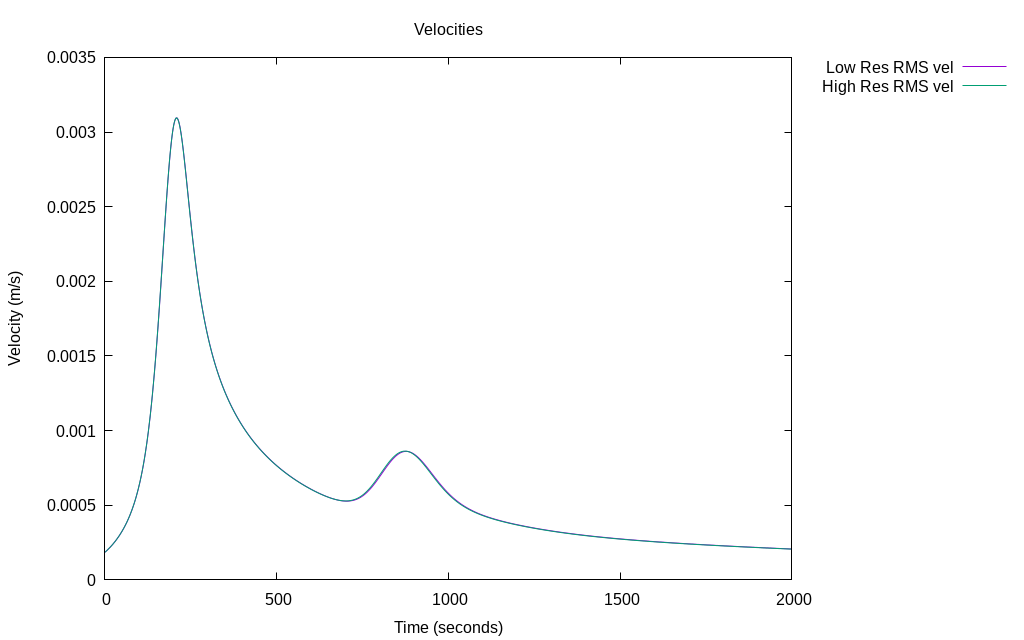
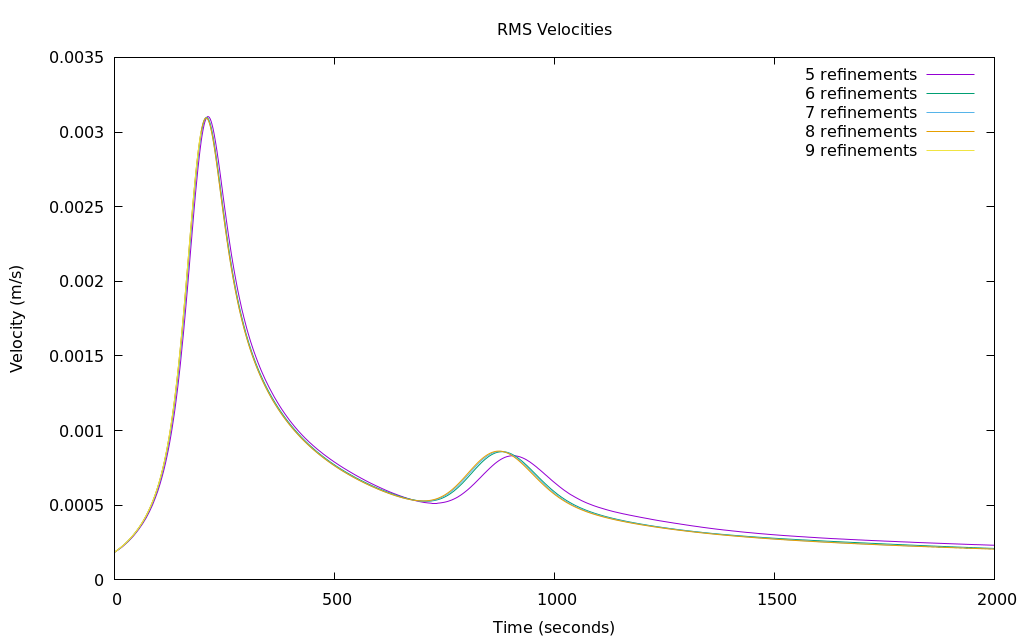
Elaborate and add preliminary figures
Note that the rms figures used are not yet final, due to some of the
compuations not yet having completed

diff --git a/doc/manual/manual.tex b/doc/manual/manual.tex
@@ -9049,8 +9049,8 @@ and therefore must have $0<\sigma<1$ for stability.
 
 Because we have noted above that the problem is sensitive to initial
 conditions, rather than use a standard initialization for the volume fractions
-from a composition field, we instead initialize the problem by providing a
-level set function.
+by integrating a composition field by quadrature, we instead initialize the
+problem by providing a level set function.
 In particular, this initialization method is done by providing a function which
 is a signed distance level set function, i.e. a function which is positive in
 the region which contains the material while negative elsewhere and the
@@ -9063,6 +9063,15 @@ The relevant parameter file sections for this use of the volume-of-fluid
 advection algorithm are:
 
 \lstinputlisting[language=prmfile]{cookbooks/benchmarks/vof-van-keken/main.part.prm.out}
+
+In particular, the combinaton of \texttt{Number of initialization samples} with
+the \texttt{level set} initialization type indicates to do the initialization by
+dividing each cell into a $16\times 16$ set of subcells, and use the level set
+function provided to compute the volume fraction in each subcell based on using
+the provided level set function to approximate the division in the subcell as a
+linear interface.
+As expected from this description, this can be expected to give a much better
+intial condition than a standard simple approximation by quadrature.
 
 % AMR section, currently unused so not included
 % Due to the change in the advection algorithm, we also modify the refinement
@@ -9088,32 +9097,73 @@ information to draw the reconstructed boundary as a contour line are:
 
 (The full configuration file for this version of the bechmark problem can be found at \url{cookbooks/van-keken-vof.prm}).
 
-\begin{figure}
+\begin{figure}[htb]
     \centering
-    \includegraphics[width=1.0\textwidth]{cookbooks/benchmarks/vof-van-keken/rms_vel_comparison.png}
-    \caption{\it Van Keken benchmark: Evolution of the root mean square
-        velocity as a function of time under different levels of mesh refinement.
-        The lower refinement level model was run on a 128x128 mesh, matching the other
-    models, while the higher refinement model was run on a 256x256 mesh.}
+    \includegraphics[width=0.5\textwidth]{cookbooks/benchmarks/vof-van-keken/rms_vel_comparison.png}
+    \caption{\it Van Keken benchmark using VOF interface tracking: Evolution of
+        the root mean square velocity as a function of time for different numbers
+    of global mesh refinements.  Compare to Figure~\ref{fig:vk-2}}
     \label{fig:vof-vk-1}
 \end{figure}
 
-We begin by examining the RMS velocity data shown in Figure~\ref{fig:vof-vk-1}, and note that the two
+We begin by examining the RMS velocity data shown in Figure~\ref{fig:vof-vk-1},
+and note that other than the case of 5 levels of global refinment the lines for
+the RMS velocities are nearly indistinguishable.
 
 \begin{figure}
     \centering
     \includegraphics[width=0.4\textwidth]{cookbooks/benchmarks/vof-van-keken/vof_van_keken_refinement_comparison.png}
     \caption{\it Van Keken benchmark using VOF advection algorithm. The
         visualization here consists of two contours for the reconstructed
-        interfaces superimposed on the colorscale composition data for the higher
-        refinement model. The contour for the higher refinement model is bright green,
-    while the lower refinement contour is in black.}
+        interfaces superimposed on the colorscale composition data for the
+        higher refinement model. The contour for the higher refinement model(8
+        refinements) is bright green, while the lower refinement contour (7
+    refinements) is in black.}
     \label{fig:vof-vk-2}
 \end{figure}
 
-We begin by noting that the general structure of the solution shown in
-Figure~\ref{fig:vof-vk-2} matches the expected form, and the general type of
-structure shown in the other versions of this benchmark.
+When examing the final solution, we note that the general structure of the
+solution shown in Figure~\ref{fig:vof-vk-2} matches the expected form, and the
+general type of structure shown in the other versions of this benchmark.
+We also note that the differences in the shape of the interface based on a
+single refinement are minor, though still visible.
+This is somewhat to be expected as refinement will inherently permit the
+formation of interfaces with sharper curves.
+
+The consistency of the results shown here can reasonably cast some doubt on the
+earlier discussion of the limitations of this problem as a benchmark.
+As we have discussed, we have selected an approach which can reasonably be
+expected to consistently reproduce the same discontinuous initial condition
+when refining the model.
+As such, we return to our examination of the inital condition and vary the size
+of the initial interface perturbation in order to examine the sensitivity of
+the problem.
+To easily identify the changes in the configuration, we insert a constant $a$
+into the function for the initial condition, as shown here:
+
+\lstinputlisting[language=prmfile]{cookbooks/benchmarks/vof-van-keken/variation.part.prm.out}
+
+\begin{figure}[htb]
+    \centering
+    \includegraphics[width=0.5\textwidth]{cookbooks/benchmarks/vof-van-keken/init_diff_rms_vel_comparison.png}
+    \caption{\it Van Keken benchmark using VOF interface tracking: Evolution of
+        the root mean square velocity as a function of time for small modifications
+    to the initial condition.  Compare to Figure~\ref{fig:vk-6}.}
+    \label{fig:vof-vk-3}
+\end{figure}
+
+For our examination, we vary the value of $a$ from the initial by $5\%$ of its initial value.
+In particular, we consider the values $a=0.019$, $0.020$, and $0.021$.
+Considering Figure~\ref{fig:vof-vk-3}, we note that we can already observe a
+visible variation in the location of the second peak, though the overall shape
+is consistent.
+The size of this variation in the initial conditions cannot be expected to be
+reproduced using a standard initialization procedure unless the cell size is on
+the scale of the change in the value of $a$, ie $h\approx \Delta a$.
+As such, our results show both the usefullness of the volume of fluid
+algorithm, and the sensitivity of the discontinuous version of the problem to
+minor variations in the initial condition, which is noted above to make its
+usefulness as a benchmark uncertain.
 
 \subsubsection{The Rayleigh-Taylor instability}
 \label{sec:benchmark-rayleigh-taylor}
